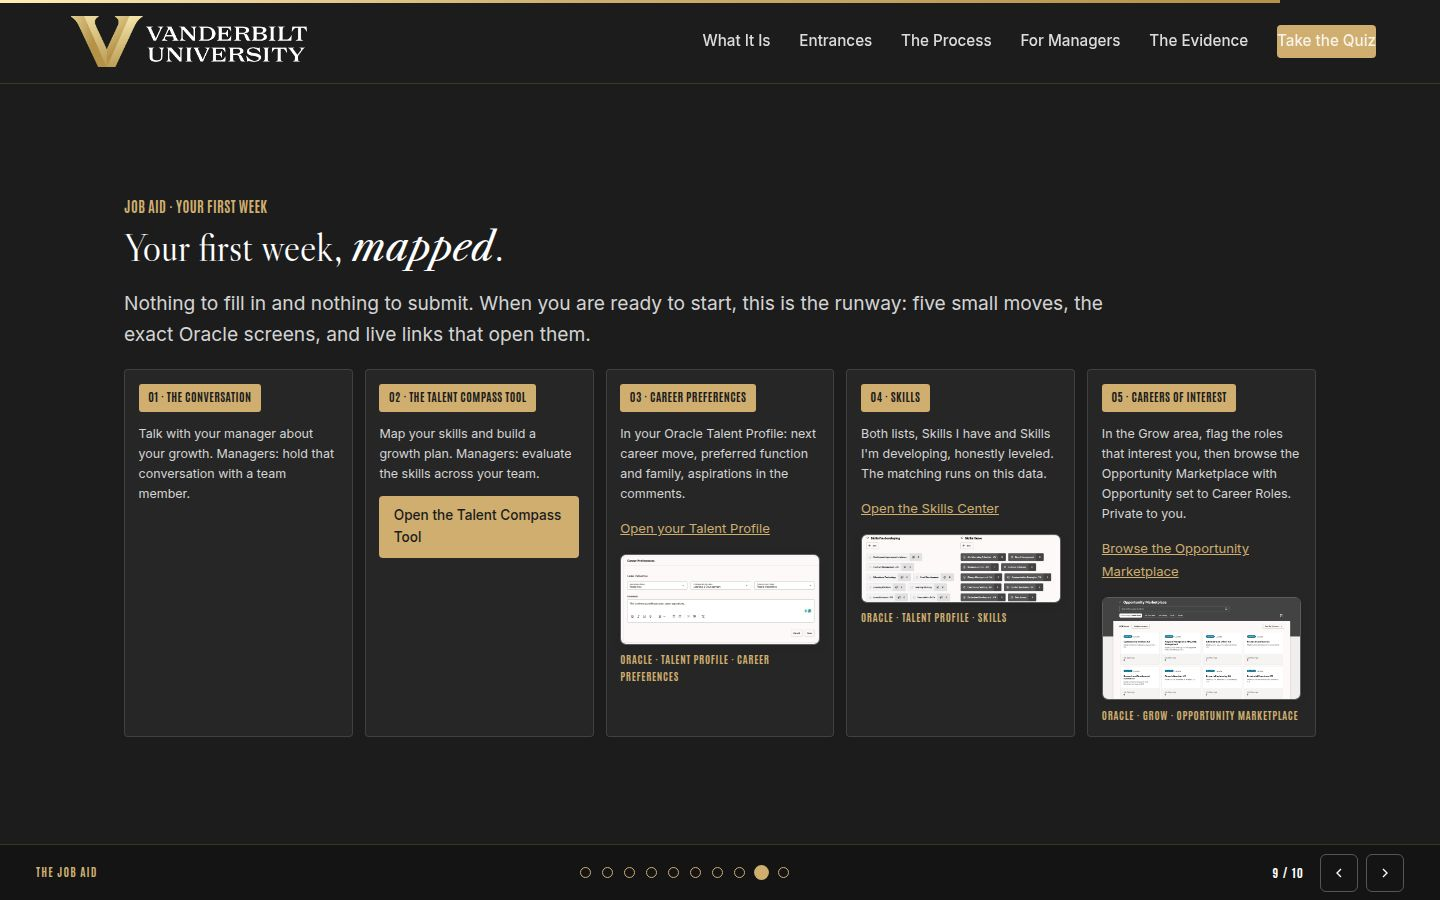
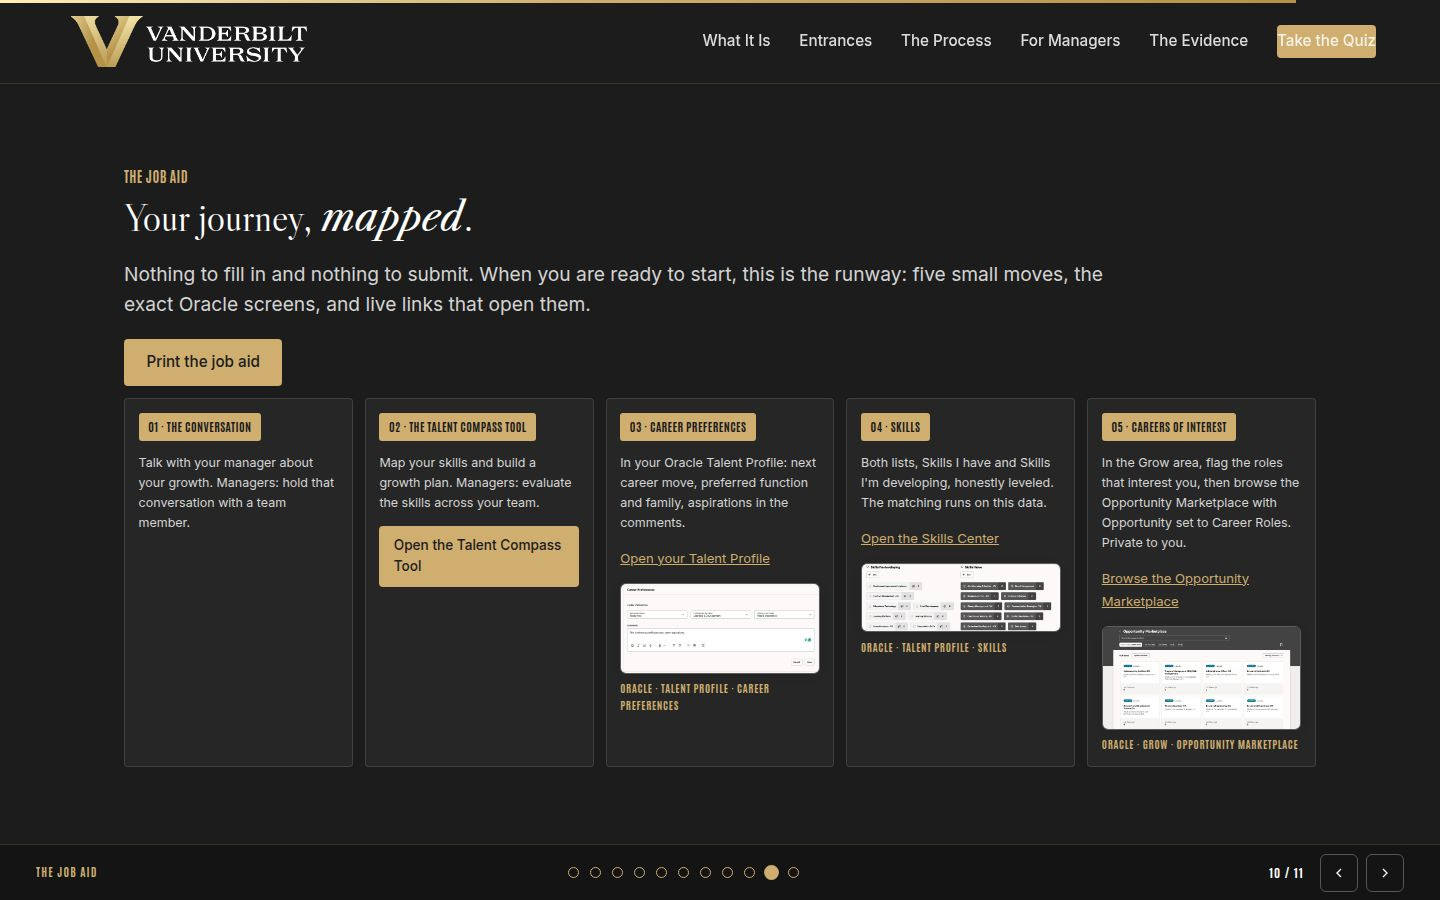
Printable job aid page, journey wording, printout link cleanup
New jobaid.html printable: the five moves with labeled hyperlinks (no
raw URLs) and a print button; linked from the job aid slide and the
closing. The job aid slide drops the first-week framing for Your
journey, mapped. The cheatsheet hyperlinks the Talent Compass Tool
label instead of showing the URL and its footer no longer prints the
site address.

Claude-Session: https://claude.ai/code/session_013tDBVkmLuRfSx6Efv12VME

Changed region(s): [[0.0625, 0.1867, 0.9062, 0.84], [0.4062, 0.9644, 0.5625, 0.9956], [0.875, 0.9644, 0.9062, 0.9956]]

diff --git a/jobaid.html b/jobaid.html
@@ -1,0 +1,114 @@
+<!DOCTYPE html>
+<html lang="en">
+<head>
+<meta charset="UTF-8">
+<meta name="viewport" content="width=device-width, initial-scale=1">
+<title>Transfer Portal Job Aid | Vanderbilt</title>
+<meta name="robots" content="noindex">
+<style>
+  @font-face { font-family: 'Libre Caslon Display'; font-style: normal; font-weight: 400;
+    src: url('assets/fonts/libre-caslon-display-latin-400-normal.woff2') format('woff2'); }
+  @font-face { font-family: 'Inter'; font-style: normal; font-weight: 400;
+    src: url('assets/fonts/inter-latin-400-normal.woff2') format('woff2'); }
+  @font-face { font-family: 'Inter'; font-style: normal; font-weight: 600;
+    src: url('assets/fonts/inter-latin-600-normal.woff2') format('woff2'); }
+  @font-face { font-family: 'Antonio'; font-style: normal; font-weight: 700;
+    src: url('assets/fonts/antonio-latin-700-normal.woff2') format('woff2'); }
+  * { box-sizing: border-box; }
+  body { margin: 0; font-family: 'Inter', Arial, sans-serif; color: #1C1C1C; background: #fff;
+    font-size: 13px; line-height: 1.45; }
+  .sheet { max-width: 820px; margin: 0 auto; padding: 28px 32px; }
+  header { display: flex; align-items: center; justify-content: space-between; gap: 16px;
+    border-bottom: 2px solid #CFAE70; padding-bottom: 14px; margin-bottom: 18px; }
+  header img { width: 150px; }
+  h1 { font-family: 'Libre Caslon Display', 'Times New Roman', serif; font-weight: 400;
+    font-size: 26px; margin: 0; }
+  h1 em { font-style: italic; color: #946E24; }
+  .eyebrow { font-family: 'Antonio', Impact, sans-serif; font-weight: 700; text-transform: uppercase;
+    letter-spacing: .08em; font-size: 10px; color: #946E24; margin: 0 0 6px; }
+  .intro { margin: 0 0 14px; color: #444; }
+  .move { display: grid; grid-template-columns: 34px 1fr; gap: 12px; border: 1px solid #E4E4E4;
+    border-radius: 4px; padding: 12px 14px; margin-bottom: 10px; break-inside: avoid; align-items: start; }
+  .move .num { width: 26px; height: 26px; border-radius: 50%; border: 2px solid #CFAE70; color: #946E24;
+    font-family: 'Antonio', Impact, sans-serif; font-weight: 700; font-size: 13px;
+    display: grid; place-items: center; margin-top: 2px; }
+  .move h2 { font-family: 'Antonio', Impact, sans-serif; font-weight: 700; text-transform: uppercase;
+    letter-spacing: .06em; font-size: 12px; color: #946E24; margin: 0 0 4px; }
+  .move p { margin: 0; }
+  .move .where { margin-top: 4px; font-size: 12px; color: #555; }
+  b { font-weight: 600; }
+  .note { margin-top: 14px; font-size: 11.5px; color: #666; border-left: 2px solid #CFAE70; padding-left: 10px; }
+  footer { margin-top: 16px; border-top: 1px solid #E4E4E4; padding-top: 10px; font-size: 11px; color: #777;
+    display: flex; justify-content: space-between; flex-wrap: wrap; gap: 8px; }
+  a { color: #946E24; }
+  .printbtn { position: fixed; right: 18px; top: 18px; background: #CFAE70; border: 0; border-radius: 4px;
+    padding: 9px 16px; font-family: Inter, Arial, sans-serif; font-weight: 600; font-size: 13px; cursor: pointer; }
+  @media print { .printbtn { display: none; } body { font-size: 11.5px; } .sheet { padding: 0; max-width: none; } }
+</style>
+<script>
+  window.va = window.va || function () { (window.vaq = window.vaq || []).push(arguments); };
+</script>
+<script defer src="/_vercel/insights/script.js"></script>
+</head>
+<body>
+<button class="printbtn" onclick="window.print()">Print / Save as PDF</button>
+<div class="sheet">
+  <header>
+    <div>
+      <p class="eyebrow">Vanderbilt · Learning Series · The Transfer Portal</p>
+      <h1>The job aid: your journey, <em>mapped</em></h1>
+    </div>
+    <img src="assets/img/vu-lockup-black.png" alt="Vanderbilt University">
+  </header>
+
+  <p class="intro">Five small moves, in order. Nothing to submit; take them when you are ready. Career interest and skill declarations stay private to you.</p>
+
+  <div class="move">
+    <span class="num">1</span>
+    <div>
+      <h2>The growth conversation</h2>
+      <p>Talk with your manager about your growth. Managers: hold that conversation with a team member.</p>
+    </div>
+  </div>
+  <div class="move">
+    <span class="num">2</span>
+    <div>
+      <h2>The Talent Compass Tool</h2>
+      <p>Map your skills and build a growth plan. Managers: evaluate the skills across your team.</p>
+      <p class="where">Open the <a href="https://vanderbilttalentcompass.vercel.app/">Talent Compass Tool</a>.</p>
+    </div>
+  </div>
+  <div class="move">
+    <span class="num">3</span>
+    <div>
+      <h2>Career Preferences</h2>
+      <p>In your Oracle Talent Profile: next career move, preferred function and family, aspirations in the comments.</p>
+      <p class="where">Open your <a href="https://ecsr.fa.us2.oraclecloud.com/fscmUI/faces/deeplink?objType=NFX_VIEW_MY_SKILLS_AND_QUAL_VB&action=NONE">Talent Profile</a> (Oracle lists it as Skills and Qualifications).</p>
+    </div>
+  </div>
+  <div class="move">
+    <span class="num">4</span>
+    <div>
+      <h2>Skills</h2>
+      <p>Both lists, Skills I have and Skills I'm developing, honestly leveled. The matching runs on this data.</p>
+      <p class="where">Open the <a href="https://ecsr.fa.us2.oraclecloud.com/fscmUI/redwood/profiles/skills/skillscenter?navigateBack=true">Skills Center</a>.</p>
+    </div>
+  </div>
+  <div class="move">
+    <span class="num">5</span>
+    <div>
+      <h2>Careers of Interest</h2>
+      <p>In the Grow area, flag the roles that interest you, then browse the Opportunity Marketplace with Opportunity set to Career Roles: careers show with or without an open requisition.</p>
+      <p class="where">Browse the <a href="https://ecsr.fa.us2.oraclecloud.com/fscmUI/redwood/internalmobility/opportunitymarketplace/search">Opportunity Marketplace</a>.</p>
+    </div>
+  </div>
+
+  <p class="note">On paper, the links live in the digital copy of this page; in Oracle, everything above starts under <b>Me</b>.</p>
+
+  <footer>
+    <span>© 2026 Vanderbilt University · The Transfer Portal · A Vanderbilt learning experience</span>
+    <span>People, Culture and Belonging</span>
+  </footer>
+</div>
+</body>
+</html>

diff --git a/facilitator/index.html b/facilitator/index.html
@@ -777,9 +777,10 @@ body.fac-hide .facshow { display: inline-flex; }
   <!-- ============ 10 · FIRST MOVE CARD (capstone) ============ -->
   <section class="slide on-dark" id="s-plan" data-title="The job aid">
     <div class="wrap">
-      <p class="eyebrow" data-reveal>Job aid · Your first week</p>
-      <h2 class="h2" data-reveal>Your first week, <em>mapped</em>.</h2>
+      <p class="eyebrow" data-reveal>The job aid</p>
+      <h2 class="h2" data-reveal>Your journey, <em>mapped</em>.</h2>
       <p class="lead" data-reveal>Nothing to fill in and nothing to submit. When you are ready to start, this is the runway: five small moves, the exact Oracle screens, and live links that open them.</p>
+      <div class="hero__cta" data-reveal style="margin-top:.75rem"><a class="btn" href="jobaid.html">Print the job aid</a></div>
       <div class="warmup">
         <div class="card" data-reveal>
           <span class="tag">01 · The conversation</span>
@@ -810,7 +811,7 @@ body.fac-hide .facshow { display: inline-flex; }
         </div>
       </div>
     </div>
-    <aside class="facnote" aria-label="Facilitator notes"><div class="facnote__head"><span>Facilitator script</span><span class="facnote__time">Full 1 min · Core 1</span><button class="facnote__hide" type="button" aria-label="Hide the facilitator script">Hide</button></div><p class="facnote__purpose">Send everyone out with the five-move runway and the exact Oracle screens.</p><div class="facnote__blk"><span class="facnote__tag t-say">Say</span><p class="facnote__script">&ldquo;Nothing to fill in and nothing to submit. This is the job aid: five small moves, each on a real Oracle screen, with live links that open them. Move one is the growth conversation; the rest live in Oracle, and the quick reference card carries all of it home.&rdquo;</p></div><div class="facnote__blk"><span class="facnote__tag t-do">Do</span><ol class="facnote__steps"><li>Walk the five moves left to right; point at the screenshots and the live links.</li><li>Name move one as the through-line: the growth conversation.</li></ol></div><p class="facnote__meta"><b>Validate:</b> Learners know where the job aid lives and can name the move they'd take first.</p><p class="facnote__meta"><b>Watch for:</b> Turning this into a planning exercise; the course educates, the moves come later.</p><div class="facnote__blk"><span class="facnote__tag t-tra">Transition</span><p class="facnote__script">&ldquo;Last slide.&rdquo;</p></div><p class="facnote__meta facnote__core"><b>60-min core:</b> Core: point at the five moves and the links; done.</p></aside>
+    <aside class="facnote" aria-label="Facilitator notes"><div class="facnote__head"><span>Facilitator script</span><span class="facnote__time">Full 1 min · Core 1</span><button class="facnote__hide" type="button" aria-label="Hide the facilitator script">Hide</button></div><p class="facnote__purpose">Send everyone out with the five-move runway and the exact Oracle screens.</p><div class="facnote__blk"><span class="facnote__tag t-say">Say</span><p class="facnote__script">&ldquo;Nothing to fill in and nothing to submit. This is the job aid: five small moves, each on a real Oracle screen, with live links that open them. Move one is the growth conversation; the rest live in Oracle. Print it from the button right here, and the quick reference card carries the rest home.&rdquo;</p></div><div class="facnote__blk"><span class="facnote__tag t-do">Do</span><ol class="facnote__steps"><li>Walk the five moves left to right; point at the screenshots and the live links.</li><li>Name move one as the through-line: the growth conversation.</li><li>Point at the Print the job aid button for the take-home.</li></ol></div><p class="facnote__meta"><b>Validate:</b> Learners know where the job aid lives and can name the move they'd take first.</p><p class="facnote__meta"><b>Watch for:</b> Turning this into a planning exercise; the course educates, the moves come later.</p><div class="facnote__blk"><span class="facnote__tag t-tra">Transition</span><p class="facnote__script">&ldquo;Last slide.&rdquo;</p></div><p class="facnote__meta facnote__core"><b>60-min core:</b> Core: point at the five moves and the links; done.</p></aside>
   </section>
 
   
@@ -822,7 +823,7 @@ body.fac-hide .facshow { display: inline-flex; }
     <div class="wrap" style="text-align:center">
       <img src="../assets/img/vu-centered-white.png" alt="Vanderbilt University" width="120" height="125" style="margin:0 auto 1.25rem;width:clamp(80px,8vw,110px);height:auto" data-reveal>
       <h2 class="h2 gold-text" data-reveal style="max-width:20ch;margin-inline:auto">Now make the first <em>move</em>.</h2>
-      <p class="lead" data-reveal style="margin:1.25rem auto 0;color:rgba(255,255,255,.82)">You know the portal, your entrance, both tracks, the conversation, and the numbers. The job aid, one page back, maps your first week.</p>
+      <p class="lead" data-reveal style="margin:1.25rem auto 0;color:rgba(255,255,255,.82)">You know the portal, your entrance, both tracks, the conversation, and the numbers. The job aid, one page back, maps the journey.</p>
       <div class="vidcard vidcard--feature" data-reveal style="text-align:left;max-width:680px;margin:1.25rem auto 0;cursor:default">
         <div class="vidcard__top"><span class="vidcard__src">Your one next step · This week</span><span class="vidcard__dur">Within 7 days</span></div>
         <h3>Pick one move from the job aid</h3>
@@ -831,6 +832,7 @@ body.fac-hide .facshow { display: inline-flex; }
       <p class="why" data-reveal style="margin:1rem auto 0;max-width:52ch;text-align:center"><b>Before you go:</b> the five moves are small on purpose. Pick the one you will take this week.</p>
       <div class="hero__cta" data-reveal style="justify-content:center;margin-top:1.25rem">
         <a class="btn" href="../cheatsheet.html" target="_blank" rel="noopener">Take the quick reference card</a>
+        <a class="btn btn--ghost" href="jobaid.html" target="_blank" rel="noopener">Print the job aid</a>
         <a class="btn btn--ghost" href="#s-recap">Retake the quiz</a>
       </div>
     </div>

diff --git a/web/index.html b/web/index.html
@@ -622,9 +622,10 @@
   <!-- ============ 10 · FIRST MOVE CARD (capstone) ============ -->
   <section class="slide on-dark" id="s-plan" data-title="The job aid">
     <div class="wrap">
-      <p class="eyebrow" data-reveal>Job aid · Your first week</p>
-      <h2 class="h2" data-reveal>Your first week, <em>mapped</em>.</h2>
+      <p class="eyebrow" data-reveal>The job aid</p>
+      <h2 class="h2" data-reveal>Your journey, <em>mapped</em>.</h2>
       <p class="lead" data-reveal>Nothing to fill in and nothing to submit. When you are ready to start, this is the runway: five small moves, the exact Oracle screens, and live links that open them.</p>
+      <div class="hero__cta" data-reveal style="margin-top:.75rem"><a class="btn" href="../jobaid.html">Print the job aid</a></div>
       <div class="warmup">
         <div class="card" data-reveal>
           <span class="tag">01 · The conversation</span>
@@ -666,7 +667,7 @@
     <div class="wrap" style="text-align:center">
       <img src="../assets/img/vu-centered-white.png" alt="Vanderbilt University" width="120" height="125" style="margin:0 auto 1.25rem;width:clamp(80px,8vw,110px);height:auto" data-reveal>
       <h2 class="h2 gold-text" data-reveal style="max-width:20ch;margin-inline:auto">Now make the first <em>move</em>.</h2>
-      <p class="lead" data-reveal style="margin:1.25rem auto 0;color:rgba(255,255,255,.82)">You know the portal, your entrance, both tracks, the conversation, and the numbers. The job aid, one page back, maps your first week.</p>
+      <p class="lead" data-reveal style="margin:1.25rem auto 0;color:rgba(255,255,255,.82)">You know the portal, your entrance, both tracks, the conversation, and the numbers. The job aid, one page back, maps the journey.</p>
       <div class="vidcard vidcard--feature" data-reveal style="text-align:left;max-width:680px;margin:1.25rem auto 0;cursor:default">
         <div class="vidcard__top"><span class="vidcard__src">Your one next step · This week</span><span class="vidcard__dur">Within 7 days</span></div>
         <h3>Pick one move from the job aid</h3>
@@ -675,6 +676,7 @@
       <p class="why" data-reveal style="margin:1rem auto 0;max-width:52ch;text-align:center"><b>Before you go:</b> the five moves are small on purpose. Pick the one you will take this week.</p>
       <div class="hero__cta" data-reveal style="justify-content:center;margin-top:1.25rem">
         <a class="btn" href="../cheatsheet.html" target="_blank" rel="noopener">Take the quick reference card</a>
+        <a class="btn btn--ghost" href="../jobaid.html" target="_blank" rel="noopener">Print the job aid</a>
         <a class="btn btn--ghost" href="#s-recap">Retake the quiz</a>
       </div>
     </div>

diff --git a/index.html b/index.html
@@ -672,9 +672,10 @@
   <!-- ============ 10 · FIRST MOVE CARD (capstone) ============ -->
   <section class="slide on-dark" id="s-plan" data-title="The job aid">
     <div class="wrap">
-      <p class="eyebrow" data-reveal>Job aid · Your first week</p>
-      <h2 class="h2" data-reveal>Your first week, <em>mapped</em>.</h2>
+      <p class="eyebrow" data-reveal>The job aid</p>
+      <h2 class="h2" data-reveal>Your journey, <em>mapped</em>.</h2>
       <p class="lead" data-reveal>Nothing to fill in and nothing to submit. When you are ready to start, this is the runway: five small moves, the exact Oracle screens, and live links that open them.</p>
+      <div class="hero__cta" data-reveal style="margin-top:.75rem"><a class="btn" href="jobaid.html">Print the job aid</a></div>
       <div class="warmup">
         <div class="card" data-reveal>
           <span class="tag">01 · The conversation</span>
@@ -716,7 +717,7 @@
     <div class="wrap" style="text-align:center">
       <img src="assets/img/vu-centered-white.png" alt="Vanderbilt University" width="120" height="125" style="margin:0 auto 1.25rem;width:clamp(80px,8vw,110px);height:auto" data-reveal>
       <h2 class="h2 gold-text" data-reveal style="max-width:20ch;margin-inline:auto">Now make the first <em>move</em>.</h2>
-      <p class="lead" data-reveal style="margin:1.25rem auto 0;color:rgba(255,255,255,.82)">You know the portal, your entrance, both tracks, the conversation, and the numbers. The job aid, one page back, maps your first week.</p>
+      <p class="lead" data-reveal style="margin:1.25rem auto 0;color:rgba(255,255,255,.82)">You know the portal, your entrance, both tracks, the conversation, and the numbers. The job aid, one page back, maps the journey.</p>
       <div class="vidcard vidcard--feature" data-reveal style="text-align:left;max-width:680px;margin:1.25rem auto 0;cursor:default">
         <div class="vidcard__top"><span class="vidcard__src">Your one next step · This week</span><span class="vidcard__dur">Within 7 days</span></div>
         <h3>Pick one move from the job aid</h3>
@@ -725,6 +726,7 @@
       <p class="why" data-reveal style="margin:1rem auto 0;max-width:52ch;text-align:center"><b>Before you go:</b> the five moves are small on purpose. Pick the one you will take this week.</p>
       <div class="hero__cta" data-reveal style="justify-content:center;margin-top:1.25rem">
         <a class="btn" href="cheatsheet.html" target="_blank" rel="noopener">Take the quick reference card</a>
+        <a class="btn btn--ghost" href="jobaid.html" target="_blank" rel="noopener">Print the job aid</a>
         <a class="btn btn--ghost" href="#s-recap">Retake the quiz</a>
       </div>
     </div>

diff --git a/cheatsheet.html b/cheatsheet.html
@@ -134,7 +134,7 @@
       <h2>Do this today, five moves</h2>
       <ol>
         <li><b>The growth conversation:</b> with your manager about your growth; managers, with a team member.</li>
-        <li><b>Talent Compass Tool:</b> build your plan, or as a manager evaluate your team's skills: <a href="https://vanderbilttalentcompass.vercel.app/">vanderbilttalentcompass.vercel.app</a></li>
+        <li><b><a href="https://vanderbilttalentcompass.vercel.app/">Talent Compass Tool</a>:</b> build your plan, or as a manager evaluate your team's skills.</li>
         <li><b>Career Preferences:</b> update them in your <a href="https://ecsr.fa.us2.oraclecloud.com/fscmUI/faces/deeplink?objType=NFX_VIEW_MY_SKILLS_AND_QUAL_VB&action=NONE">Talent Profile</a> in Oracle (next move, preferred function and family, aspirations).</li>
         <li><b>Skills:</b> in the <a href="https://ecsr.fa.us2.oraclecloud.com/fscmUI/redwood/profiles/skills/skillscenter?navigateBack=true">Skills Center</a>, make sure Skills I have and Skills I'm developing are current and honestly leveled.</li>
         <li><b>Careers of Interest:</b> flag them in the Grow area of Oracle, then browse the <a href="https://ecsr.fa.us2.oraclecloud.com/fscmUI/redwood/internalmobility/opportunitymarketplace/search">Opportunity Marketplace</a> with Opportunity set to Career Roles.</li>
@@ -144,7 +144,7 @@
   </div>
 
   <footer>
-    <span>The Transfer Portal · Vanderbilt Learning Series · <a href="https://me5231979.github.io/TransferPortal-/">me5231979.github.io/TransferPortal-</a></span>
+    <span>The Transfer Portal · A Vanderbilt learning experience</span>
     <span>The research base: <a href="https://www.aeaweb.org/articles?id=10.1257/aer.20220264">Haegele, "Talent Hoarding in Organizations" (AER 2024)</a></span>
   </footer>
 </div>

diff --git a/facilitator/guide.html b/facilitator/guide.html
@@ -228,8 +228,8 @@
     <div class="sec__notes">
     <h2>Job aid · Five moves <span class="mins">Full 1 min · Core 1</span></h2>
     <p class="purpose">Send everyone out with the five-move runway and the exact Oracle screens.</p>
-    <p class="tagline say">Say</p><p class="script">&ldquo;Nothing to fill in and nothing to submit. This is the job aid: five small moves, each on a real Oracle screen, with live links that open them. Move one is the growth conversation; the rest live in Oracle, and the quick reference card carries all of it home.&rdquo;</p>
-    <p class="tagline">Do</p><ol><li>Walk the five moves left to right; point at the screenshots and the live links.</li><li>Name move one as the through-line: the growth conversation.</li></ol>
+    <p class="tagline say">Say</p><p class="script">&ldquo;Nothing to fill in and nothing to submit. This is the job aid: five small moves, each on a real Oracle screen, with live links that open them. Move one is the growth conversation; the rest live in Oracle. Print it from the button right here, and the quick reference card carries the rest home.&rdquo;</p>
+    <p class="tagline">Do</p><ol><li>Walk the five moves left to right; point at the screenshots and the live links.</li><li>Name move one as the through-line: the growth conversation.</li><li>Point at the Print the job aid button for the take-home.</li></ol>
     
     
     <p class="mini"><b>Validate:</b> Learners know where the job aid lives and can name the move they'd take first.</p>

diff --git a/tools/build-web.py b/tools/build-web.py
@@ -40,6 +40,7 @@ s = re.sub(r'(rel="canonical" href="[^"]+?)/?"', r'\1/web/"', s, count=1)
 s = s.replace('href="assets/', 'href="../assets/')
 s = s.replace('src="assets/', 'src="../assets/')
 s = s.replace('href="cheatsheet.html"', 'href="../cheatsheet.html"')
+s = s.replace('href="jobaid.html"', 'href="../jobaid.html"')
 s = s.replace('href="worksheet.html"', 'href="../worksheet.html"')
 s = s.replace('<li><a href="web/">Self-paced version</a></li>',
               '<li><a href="../">Classroom edition (for facilitators)</a></li>')
